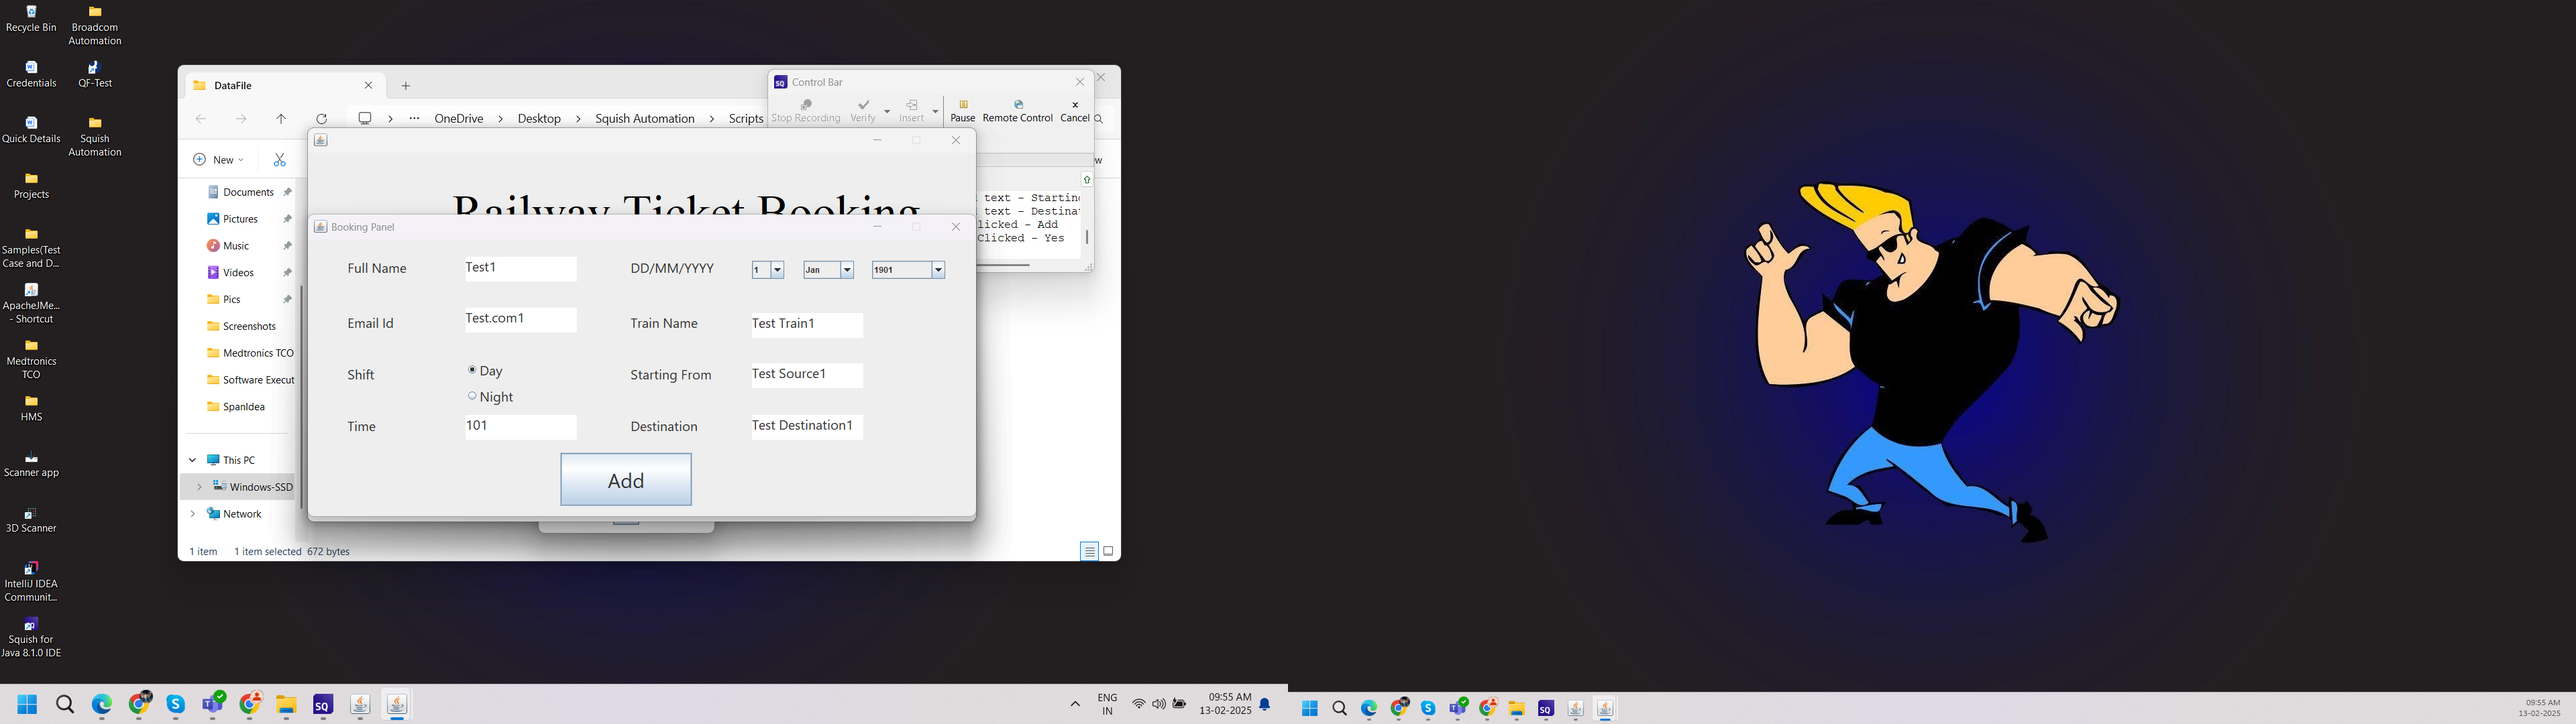
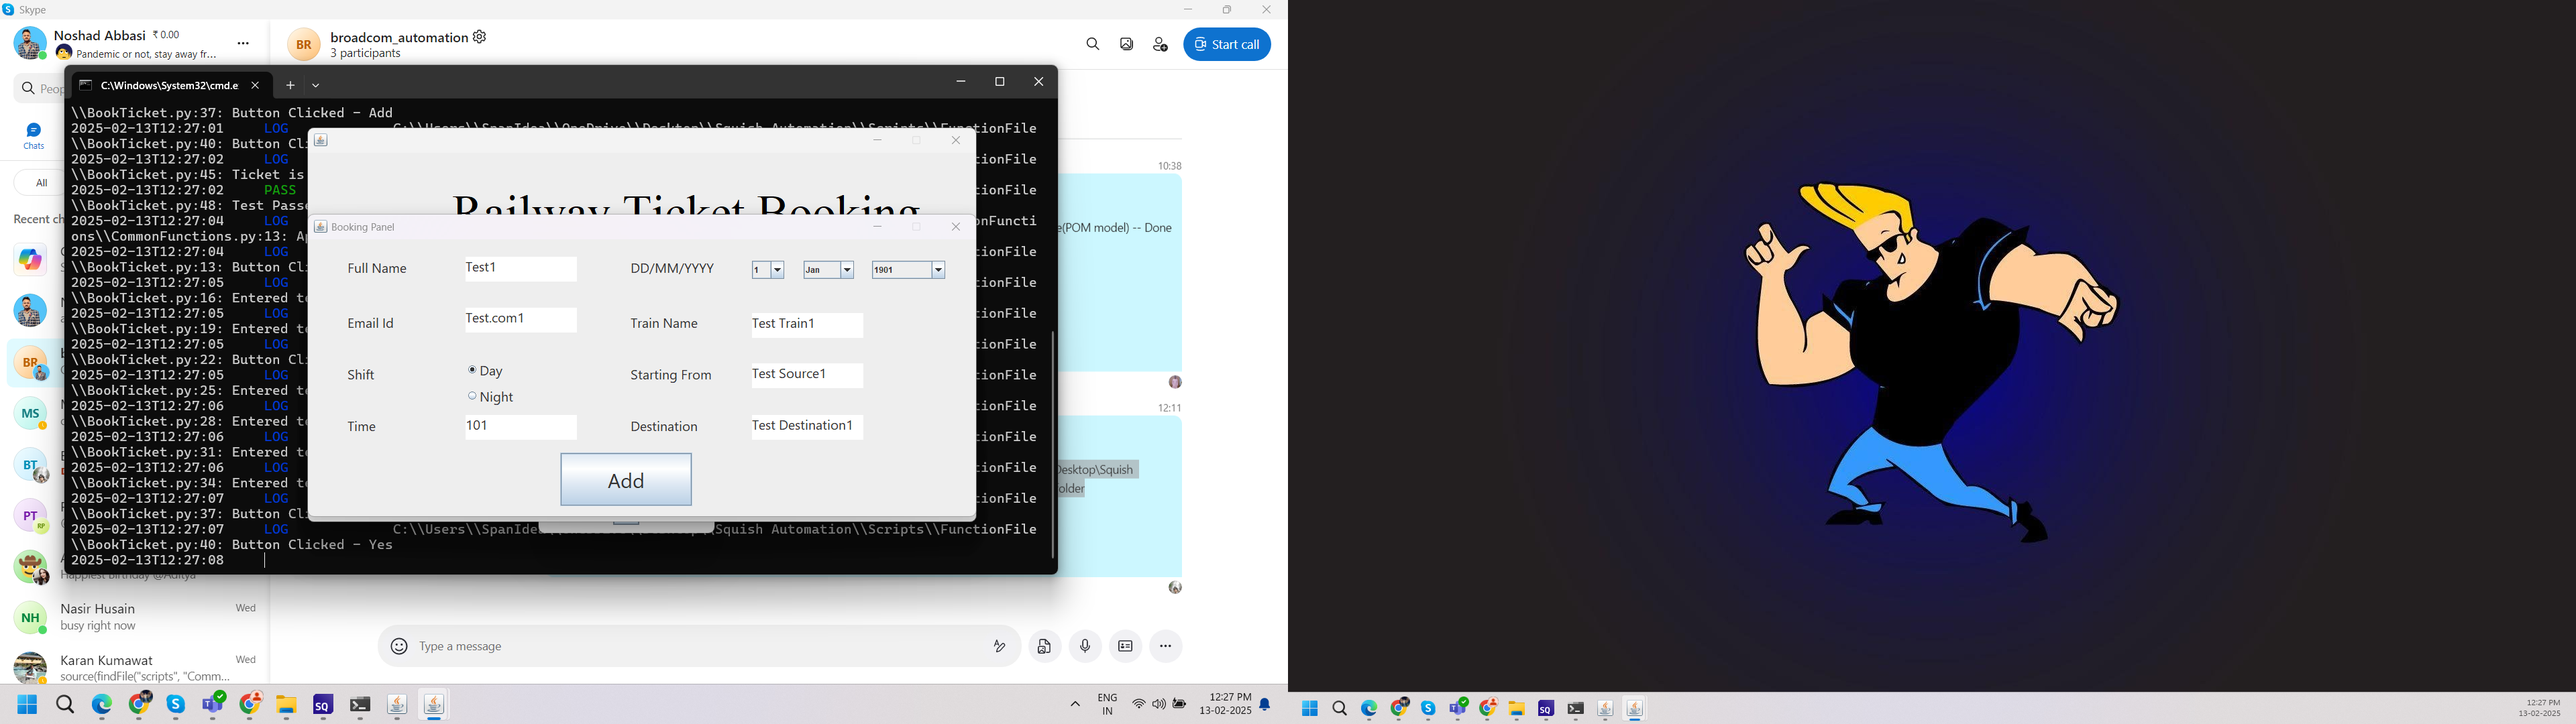
Login

Changed region(s): [[0.0, 0.0, 0.5, 0.9778], [0.5938, 0.9778, 0.625, 1.0]]

diff --git a/Scripts/FunctionFile/BookTicket.py b/Scripts/FunctionFile/BookTicket.py
@@ -4,7 +4,6 @@ from squish import *
 import sys
 import os
 
-names_path = r"C:\Users\SpanIdea\OneDrive\Desktop\Squish Automation\Suite File\suite_SquishRailwayJavaApplication\shared\scripts"
 
 import names
 
@@ -49,5 +48,40 @@ def verify_booking(Expected_Message):
         test.passes("Test Passed")
     else:
         test.log(f"Test Failed: Expected '{Expected_Message}', but got '{Actual_Message}'"); saveDesktopScreenshot("FailedScreen.png"); test.fail("Test Failed")
+        
+def Cancle_button_Working(data):
+    # Fill out the booking form with data
+    mouseClick(waitForObjectExists(names.book_Tickets_JButton))
+    test.log("Button Clicked - Book Tickets")
+    
+    type(waitForObject(names.booking_Panel_Full_Name_JTextArea), data["FullName"])
+    test.log("Entered text - Full Name")
+
+    type(waitForObject(names.booking_Panel_Email_Id_JTextArea), data["Email"])
+    test.log("Entered text - Email ID")
+
+    mouseClick(waitForObjectExists(names.booking_Panel_Day_JRadioButton))
+    test.log("Button Clicked - Shift Day")
+
+    type(waitForObject(names.booking_Panel_Time_JTextArea), data["Time"])
+    test.log("Entered text - Time")
+
+    type(waitForObject(names.booking_Panel_Train_Name_JTextArea), data["Train Name"])
+    test.log("Entered text - Train Name")
+
+    type(waitForObject(names.booking_Panel_Starting_From_JTextArea), data["Starting From"])
+    test.log("Entered text - Starting From")
+
+    type(waitForObject(names.booking_Panel_Destination_JTextArea), data["Destination"])
+    test.log("Entered text - Destination")
+
+    mouseClick(waitForObjectExists(names.booking_Panel_Add_JButton))
+    test.log("Button Clicked - Add")
+    
+    mouseClick(waitForObjectExists(names.select_an_Option_No_JButton))
+    test.log("Button Clicked - No")
+    
+    test.passes("Test Passed")
+    
         
 

diff --git a/Suite File/suite_SquishRailwayJavaApplication/shared/scripts/names.py b/Suite File/suite_SquishRailwayJavaApplication/shared/scripts/names.py
@@ -24,3 +24,12 @@ select_an_Option_Yes_JButton = {"caption": "Yes", "name": "OptionPane.button", "
 message_JDialog = {"caption": "Message", "type": "javax.swing.JDialog", "visible": True}
 message_OK_JButton = {"caption": "OK", "name": "OptionPane.button", "type": "javax.swing.JButton", "visible": True, "window": message_JDialog}
 message_Ticket_is_booked_sucessfully_JLabel = {"caption": "Ticket is booked sucessfully.", "name": "OptionPane.label", "type": "javax.swing.JLabel", "visible": True, "window": message_JDialog}
+select_an_Option_No_JButton = {"caption": "No", "name": "OptionPane.button", "type": "javax.swing.JButton", "visible": True, "window": select_an_Option_JDialog}
+admin_Login_JButton = {"caption": "Admin Login", "type": "javax.swing.JButton", "visible": True, "window": o_UserLogin}
+admin_Login_AdminLogin = {"caption": "Admin Login", "type": "Admin.AdminLogin", "visible": True}
+admin_Login_Admin_ID_JLabel = {"caption": "Admin-ID", "type": "javax.swing.JLabel", "visible": True, "window": admin_Login_AdminLogin}
+admin_Login_Admin_ID_JTextField = {"leftWidget": admin_Login_Admin_ID_JLabel, "type": "javax.swing.JTextField", "visible": True, "window": admin_Login_AdminLogin}
+admin_Login_Password_JLabel = {"caption": "Password", "type": "javax.swing.JLabel", "visible": True, "window": admin_Login_AdminLogin}
+admin_Login_Password_JPasswordField = {"leftWidget": admin_Login_Password_JLabel, "type": "javax.swing.JPasswordField", "visible": True, "window": admin_Login_AdminLogin}
+admin_Login_Login_JButton = {"caption": "Login", "type": "javax.swing.JButton", "visible": True, "window": admin_Login_AdminLogin}
+message_Wrong_Username_Password_JLabel = {"caption": "Wrong Username & Password", "name": "OptionPane.label", "type": "javax.swing.JLabel", "visible": True, "window": message_JDialog}

diff --git a/Scripts/FunctionFile/Login.py b/Scripts/FunctionFile/Login.py
@@ -1,0 +1,32 @@
+# -*- coding: utf-8 -*-  
+import json
+from squish import *
+import sys
+import os
+
+
+import names
+
+def Login(data):
+    
+    mouseClick(waitForObjectExists(names.admin_Login_JButton))
+    test.log("Button Clicked - Admin Login")
+
+    type(waitForObject(names.admin_Login_Admin_ID_JTextField), data["Admin ID"])
+    test.log("Entered text - Admin ID")
+    
+    type(waitForObject(names.admin_Login_Password_JPasswordField), data["Password"])
+    test.log("Entered text - Password")
+    
+    mouseClick(waitForObjectExists(names.admin_Login_Login_JButton))
+    test.log("Button Clicked - Login")
+    
+def verify_login(Expected_Message):
+    # Verify if the ticket booking is successful
+    Actual_Message = waitForObjectExists(names.message_Wrong_Username_Password_JLabel).text
+    test.log(f"{Actual_Message}")
+
+    if Expected_Message in Actual_Message:
+        test.passes("Test Passed")
+    else:
+        test.log(f"Test Failed: Expected '{Expected_Message}', but got '{Actual_Message}'"); saveDesktopScreenshot("FailedScreen.png"); test.fail("Test Failed")

diff --git a/Suite File/suite_SquishRailwayJavaApplication/tst_test_booking.py/test.py b/Suite File/suite_SquishRailwayJavaApplication/tst_test_booking.py/test.py
@@ -2,8 +2,6 @@ import json
 import names
 source(findFile("scripts", "BookTicket.py"))
 source(findFile("scripts", "CommonFunctions.py"))
-# source(findFile("Global Scripts","BookTicket.py"))
-# source(findFile("Global Scripts","CommonFunctions.py"))
 
 
 def main():
@@ -11,7 +9,7 @@ def main():
     json_file_path = r"C:\Users\SpanIdea\OneDrive\Desktop\Squish Automation\Scripts\DataFile\BookTicket.json"
     
     with open(json_file_path, "r", encoding="utf-8") as file:
-        data = json.load(file)
+        data = json.load(file)   
     
     # Loop through the tickets data
     for ticket in data["BookTicket"]:
@@ -21,3 +19,10 @@ def main():
         launch_application()  
         fill_booking_form(ticket)  
         verify_booking(Expected_Message)  
+        
+    for ticket1 in data["CancleButton"]:
+        
+        # Execute actions
+        launch_application()  
+        Cancle_button_Working(ticket1)  
+         

diff --git a/Suite File/suite_SquishRailwayJavaApplication/tst_test_Login.py/test.py b/Suite File/suite_SquishRailwayJavaApplication/tst_test_Login.py/test.py
@@ -1,0 +1,22 @@
+import json
+import names
+source(findFile("scripts", "Login.py"))
+source(findFile("scripts", "CommonFunctions.py"))
+
+
+@allure.story('Login')
+def main():
+    # Load test data from JSON file
+    json_file_path = r"C:\Users\SpanIdea\OneDrive\Desktop\Squish Automation\Scripts\DataFile\LoginData.json"
+    
+    with open(json_file_path, "r", encoding="utf-8") as file:
+        data = json.load(file)
+    
+    # Loop through the tickets data
+    for ticket in data["Login"]:
+        Expected_Message = ticket["Expected Message"]
+        
+        # Execute actions
+        launch_application()  
+        Login(ticket)
+        verify_login(Expected_Message) 

diff --git a/Scripts/CommonFunctions/CommonFunctions.py b/Scripts/CommonFunctions/CommonFunctions.py
@@ -4,8 +4,6 @@ from squish import *
 import sys
 import os
 
-names_path = r"C:\Users\SpanIdea\OneDrive\Desktop\Squish Automation\Suite File\suite_SquishRailwayJavaApplication\shared\scripts"
-
 import names
 
 def launch_application():
